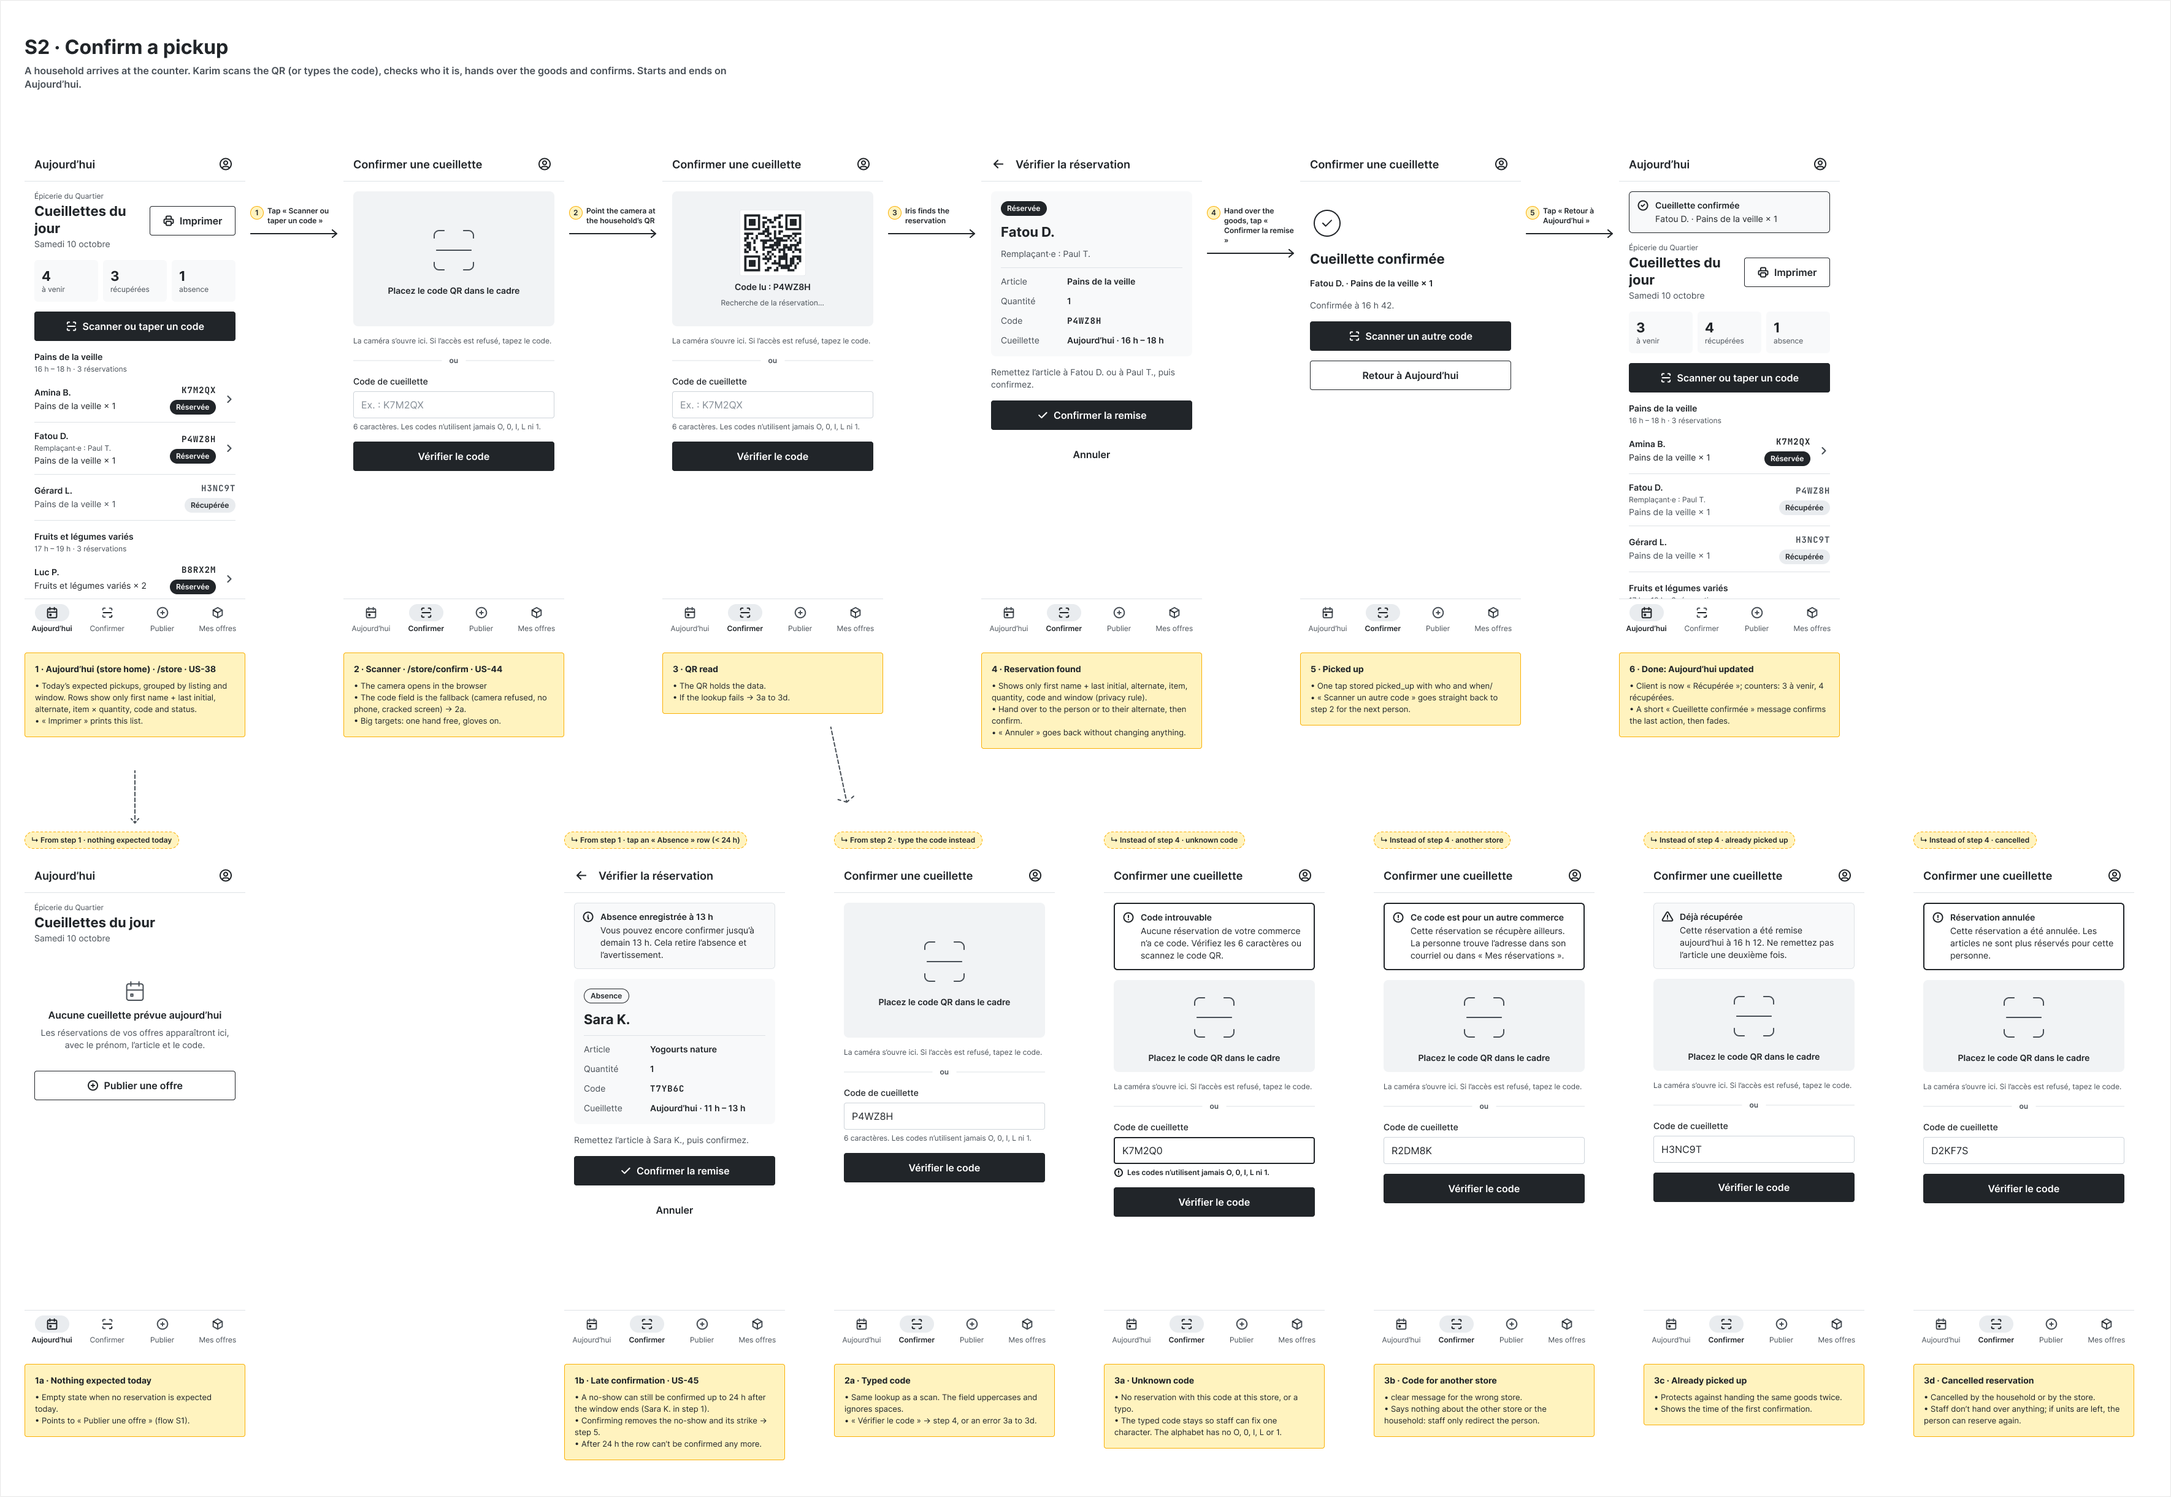
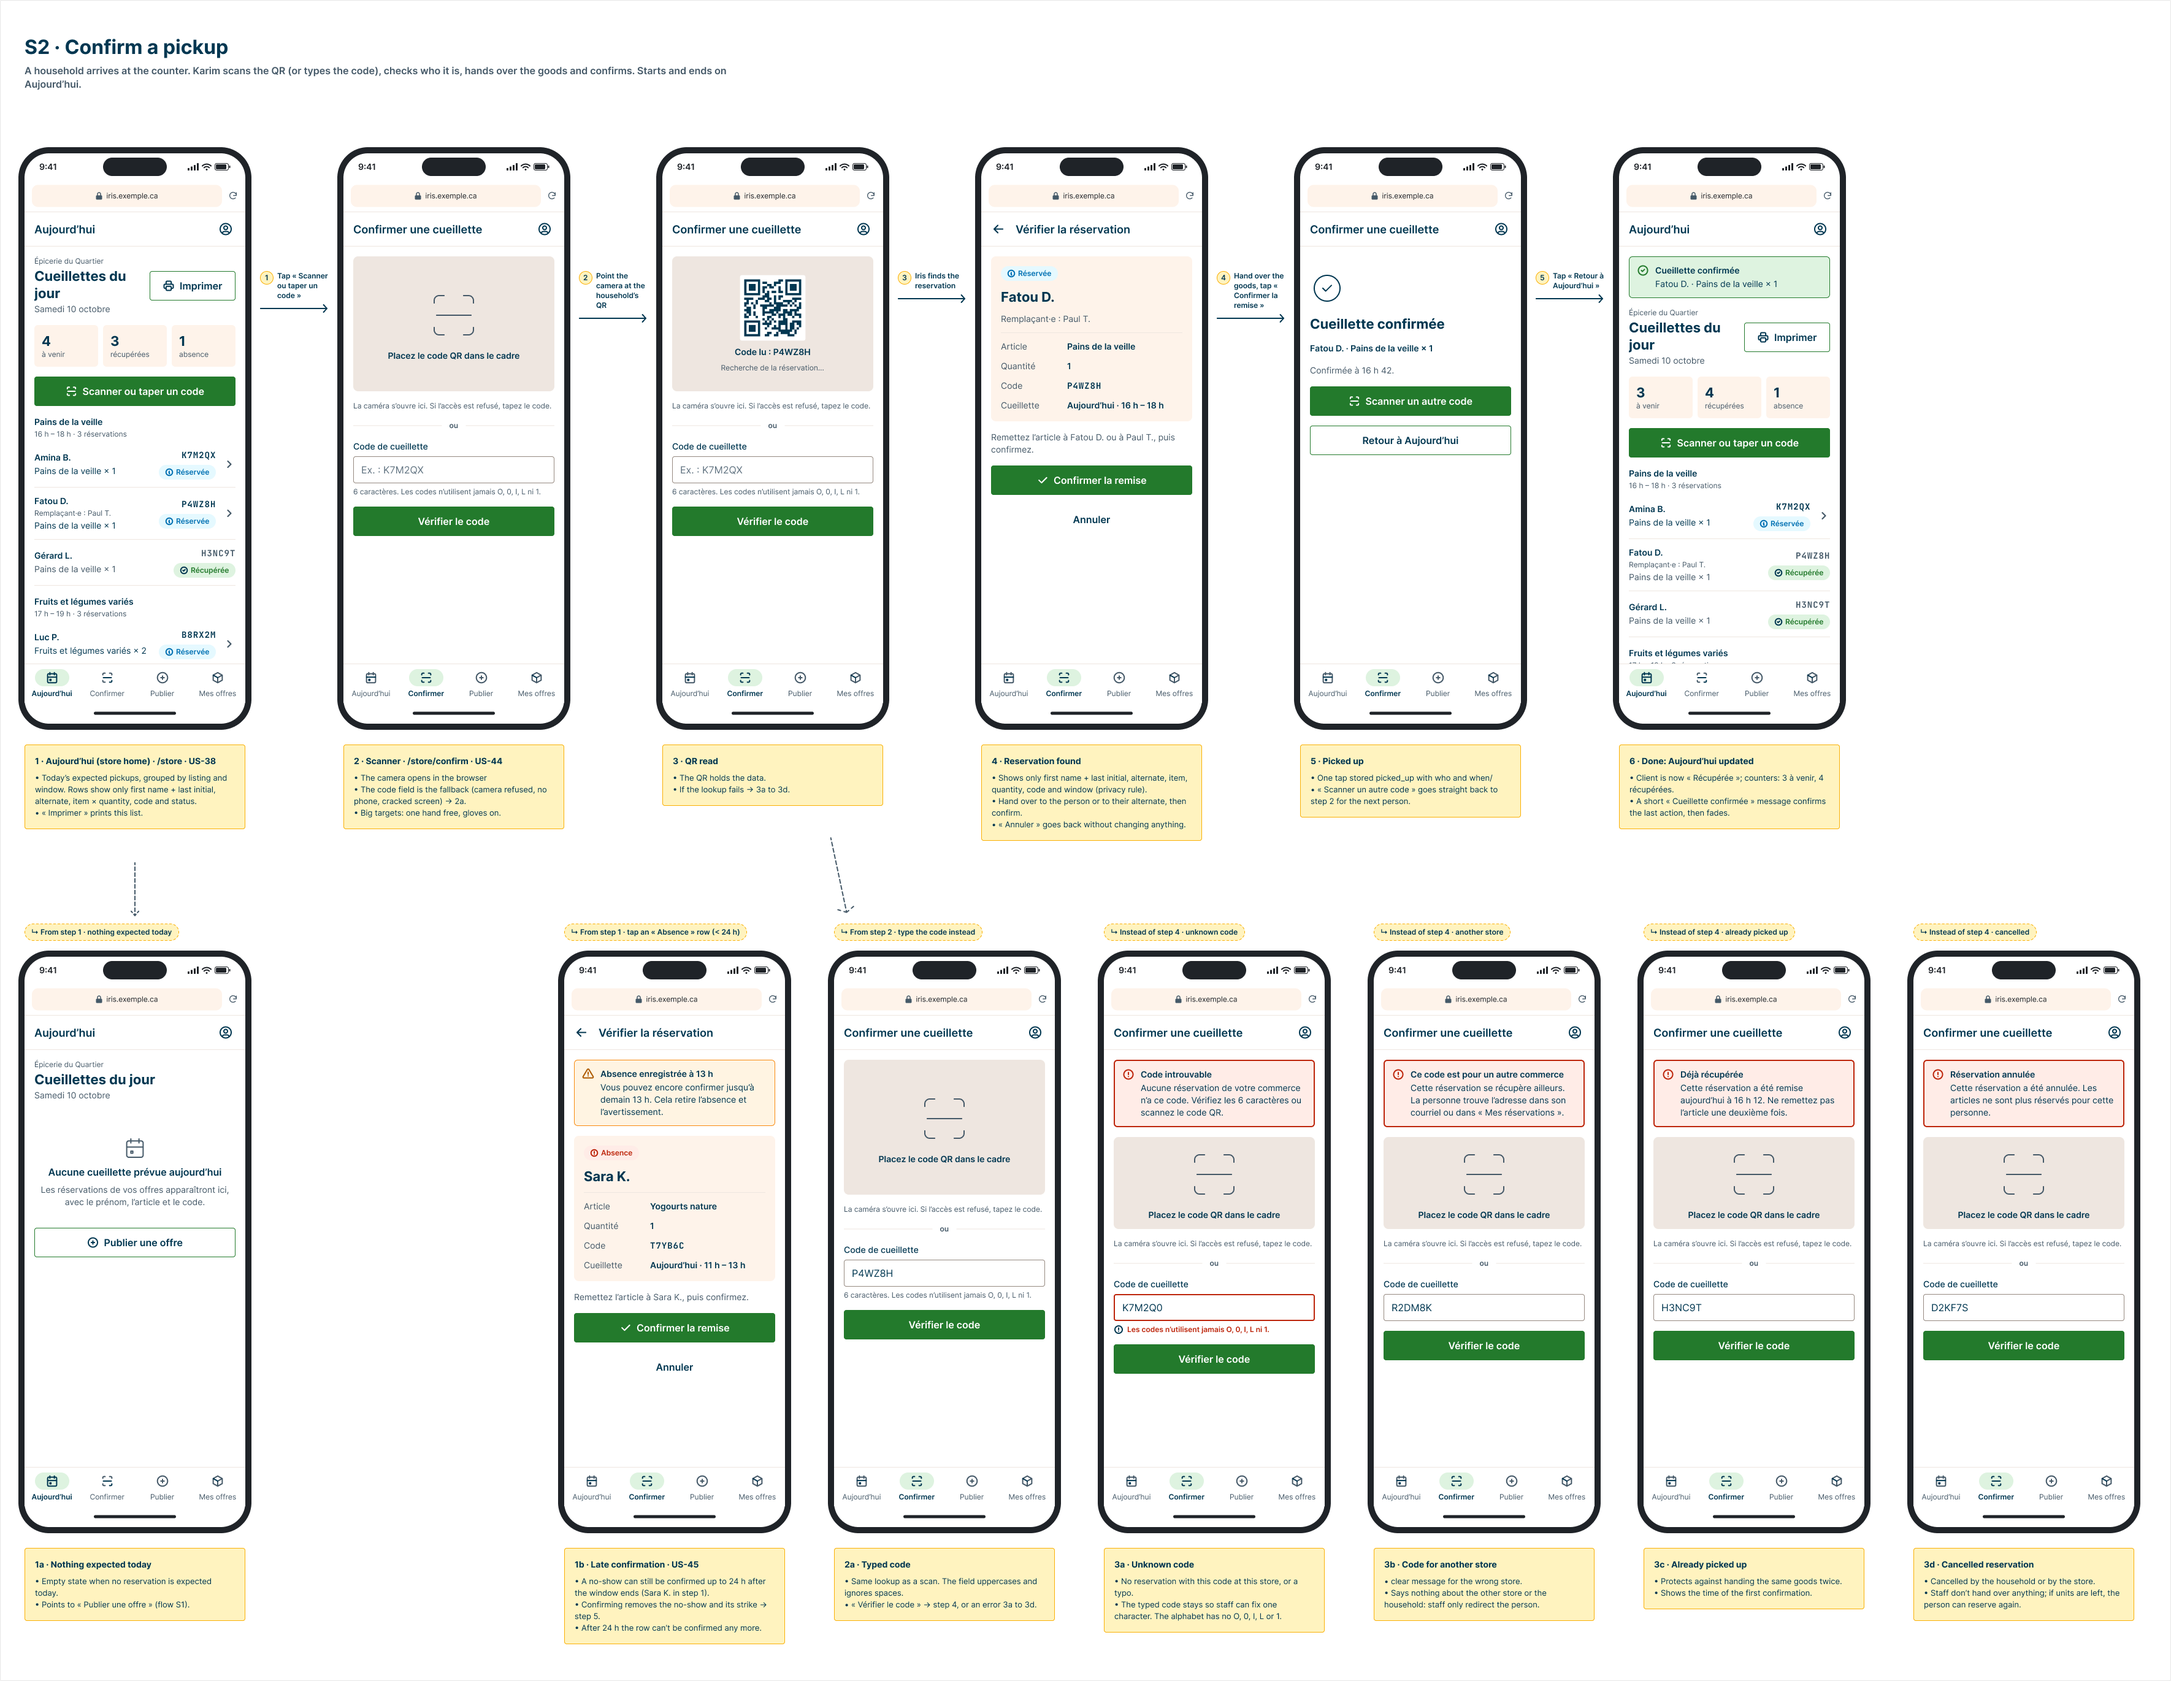
SET-33 docs(design): Added the updated mockups

diff --git a/AI_USAGE.md b/AI_USAGE.md
@@ -40,6 +40,7 @@ One row per substantive feature where AI generated a meaningful part of the impl
 | --- | --- | --- | --- |
 | US-25 duplicate check and tests (#479, #478) | `backend/modules/households/`, `backend/iris/settings/base.py`, `docs/02-requirements/business-rules.md`, `docs/03-design/api.md`, generated API types, `AI_USAGE.md` | 50% or more AI-generated | [#660](https://github.com/B-A-D-R-SL/iris/pull/660) |
 | US-63 Household search (#553, #554; tests #552) | `backend/modules/households/`, `backend/modules/audit/{services.py,README.md,tests/test_household_views.py}`, `backend/iris/{asgi.py,settings/base.py,settings/local.py}`, `backend/{.env.example,tests/test_backend_config.py}`, `frontend/src/app/{App,RequireHouseholdSearch}.tsx`, `frontend/src/areas/staff/pages/Search*`, `frontend/src/features/households/{searchApi,useHouseholdSearch}*`, `frontend/src/test/{householdSearch.ts,render.tsx}`, routes, translations, generated API types and search documentation | 50% or more AI-generated; generated migration and API types exempt | [#662](https://github.com/B-A-D-R-SL/iris/pull/662) |
+| SET-33 Colour prototypes and design docs (#651) | `docs/03-design/mockups/` (Release 1 coloured exports under the existing names, plus `Foundations.png` and the new-screen PNGs), `docs/guides/design-system.md` (Theme tokens and status map), `AI_USAGE.md` | 50% or more AI-generated for the Theme documentation; mockup PNGs are Figma exports | Not yet opened (`SET-33-mockups-release1` branch) |
 | FIX-15 Seed command boundary and household expiry (#641) | `backend/iris/management/commands/seed.py`, `backend/modules/households/domain/expiry.py`, `backend/modules/households/models.py`, `backend/modules/households/tests/test_expiry.py`, `backend/tests/test_seed.py`, `backend/pyproject.toml`, `docs/04-architecture/architecture.md`, `AI_USAGE.md` | 50% or more AI-generated | [#663](https://github.com/B-A-D-R-SL/iris/pull/663) |
 | T-01.04.3 Invitation password page (#431) | `frontend/src/areas/public/pages/AcceptInvitation{,.test}.tsx`, `frontend/src/features/accounts/invitations{,.test}.ts`, `frontend/src/app/App.tsx`, `frontend/src/shared/i18n/{fr,en}.json`, `frontend/src/shared/logger.ts`, `.coderabbit.yaml`, `backend/modules/accounts/README.md`, `docs/03-design/api.md`, `AI_USAGE.md` | 50% or more AI-generated | [#657](https://github.com/B-A-D-R-SL/iris/pull/657) |
 | T-01.04.2 Invitation model, services and acceptance API (#430) | `backend/modules/accounts/{models.py,services.py,api/,locale/fr/LC_MESSAGES/,README.md,migrations/0005_invitation.py}`, `backend/modules/accounts/tests/{conftest,test_invitations,test_invitation_logging,test_invitation_errors}.py`, `backend/modules/rules/{domain/schemas.py,tests/test_invitation_rules.py}`, `docs/02-requirements/business-rules.md`, `docs/03-design/{api,database-schema,domain-model}.md`, `docs/04-architecture/architecture.md`, `frontend/src/shared/api/generated.d.ts`, `AI_USAGE.md` | 50% or more AI-generated for source changes; Django migration, compiled catalog and generated API declarations exempt | [#657](https://github.com/B-A-D-R-SL/iris/pull/657) |
@@ -306,6 +307,13 @@ At least half of the AI-assisted features need an example here. For each one:
 - **What the AI produced:** the `seed` command, the fixed fictional plan (seed 18), household and reservation tables taken from the published schema, and `docs/04-data/seed-data.md`.
 - **How we verified it:** `test_seed_plan` checks the agreed counts, status spread, stock limits, and fictional contact details. `test_seed` runs `manage.py seed` on an empty database, checks 1 admin, 2 intake workers, B.A.D.R. plus 4 partner stores, 50 households, 30 listings, and 40 reservations, then runs it again and checks that edited rows are kept.
 - **Problems found and corrections:** household and reservation models did not exist yet, so the seed could not insert those rows. The tables follow `docs/03-design/database-schema.md`. Registration and pickup workflows are still owned by their own stories.
+
+### SET-33 Colour prototypes and design docs (#651)
+
+- **Firas's direction:** keep the Step 4 repository file names so existing links still work, restore later-release grayscale exports, and replace the Theme section in `design-system.md` with the Foundations token table and status map. The wiki and the pull request stay with Firas.
+- **What the AI produced:** the renames and restores under `docs/03-design/mockups/`, and the Theme section (token table, status colour map, colour rules, Foundations link).
+- **How we verified it:** the mockups folder matches the Step 4 file list; later-release PNGs match `HEAD`; the Theme hex values and Mantine shade names match the Foundations export.
+- **Problems found and corrections:** the first exports used Figma page names (`W4 · …`, `S2 · …`). Step 4 needs the old names (`Staff Review-partnership-application.png`, `Store - Confirm a pickup.png`, …), so the coloured files were copied onto those names and the Figma-named copies were removed.
 
 ### FIX-15 Seed command boundary and household expiry (#641)
 

diff --git a/docs/guides/design-system.md b/docs/guides/design-system.md
@@ -34,7 +34,38 @@ These only shape the interface: **every endpoint must still check permissions on
 
 ## Theme
 
-Grayscale on purpose: meaning comes from icons, borders and text, never colour alone.
+Colour tokens come from the Figma
+[Foundations · Iris colour](https://www.figma.com/design/mxXyzEOGl4nuDVdYeoRNPA/Wireframes)
+page (SET-33). Screens use tokens, never shade numbers directly. Applying them in
+`theme.ts` is SET-34; until then the running app still uses the grayscale theme.
+
+| Token | Used for | Hex | Mantine colour and shade |
+| --- | --- | --- | --- |
+| `primary` | Filled button, links, checked controls, selected icons, focus ring | `#237A2C` | `irisGreen.9` |
+| `on-primary` | Text and icons on primary and destructive buttons | `#FFFFFF` | white |
+| `text` | Body text, headings, labels | `#013751` | `irisNavy.9` |
+| `text-muted` | Secondary text, helper text, captions | `#455968` | `irisSlate.9` |
+| `surface` | Page and input background | `#FFFFFF` | white |
+| `surface-raised` | Cards, panels, read-only fields, image placeholders | `#FEF3EA` | `irisSand.0` |
+| `border` | Card and divider borders (decorative) | `#EEE6E0` | `irisSand.1` |
+| `success` strong / light | Success text, icons and borders / badge and alert background | `#237A2C` / `#DEF3E0` | `irisGreen.9` / `irisGreen.1` |
+| `warning` strong / light | Warning text and icons / badge and alert background | `#AD5900` / `#FFF4E2` | `irisOrange.9` / `irisOrange.0` |
+| `danger` strong / light | Errors, error borders, destructive buttons / badge and alert background | `#BD250B` / `#FFECE7` | `irisRed.8` / `irisRed.0` |
+| `info` strong / light | Info text and icons / badge and alert background | `#0070B2` / `#E5F9FF` | `irisBlue.9` / `irisBlue.0` |
+
+**Status colours** (strong shade for icon, text and border; light shade for badge and alert background):
+
+| Record | Status and tone |
+| --- | --- |
+| Household file | Draft: neutral · Submitted: info · Awaiting visit: info · Review required: warning · Renewal needed: warning · Approved: success · Suspended: danger · Rejected: danger |
+| Listing | Published: success · Sold out: neutral · Closed: neutral · Cancelled: neutral |
+| Reservation | Reserved: info · Picked up: success · Cancelled: neutral · Cancelled by store: warning · No-show: danger |
+| Partner application | Submitted: info · Approved: success · Rejected: danger |
+| Store, category | Active: success · Deactivated or inactive: neutral |
+| Pickup scan result | Confirmed: success · Late pickup: warning · Unknown code, other store, already picked up, cancelled: danger |
+
+**Rules:** colour is never the only signal (every status keeps its icon and label; links stay underlined); one filled `primary` button per screen; `danger` only for destructive actions and blocking errors.
+
 Buttons are 48 px and inputs 44 px with 16 px text (touch targets, no iOS zoom). Use Mantine
 components with their defaults; pass `size="sm"` only for compact controls. Icons come from
 `@tabler/icons-react` (the wireframes use the same set). One filled `Button` per screen (main
